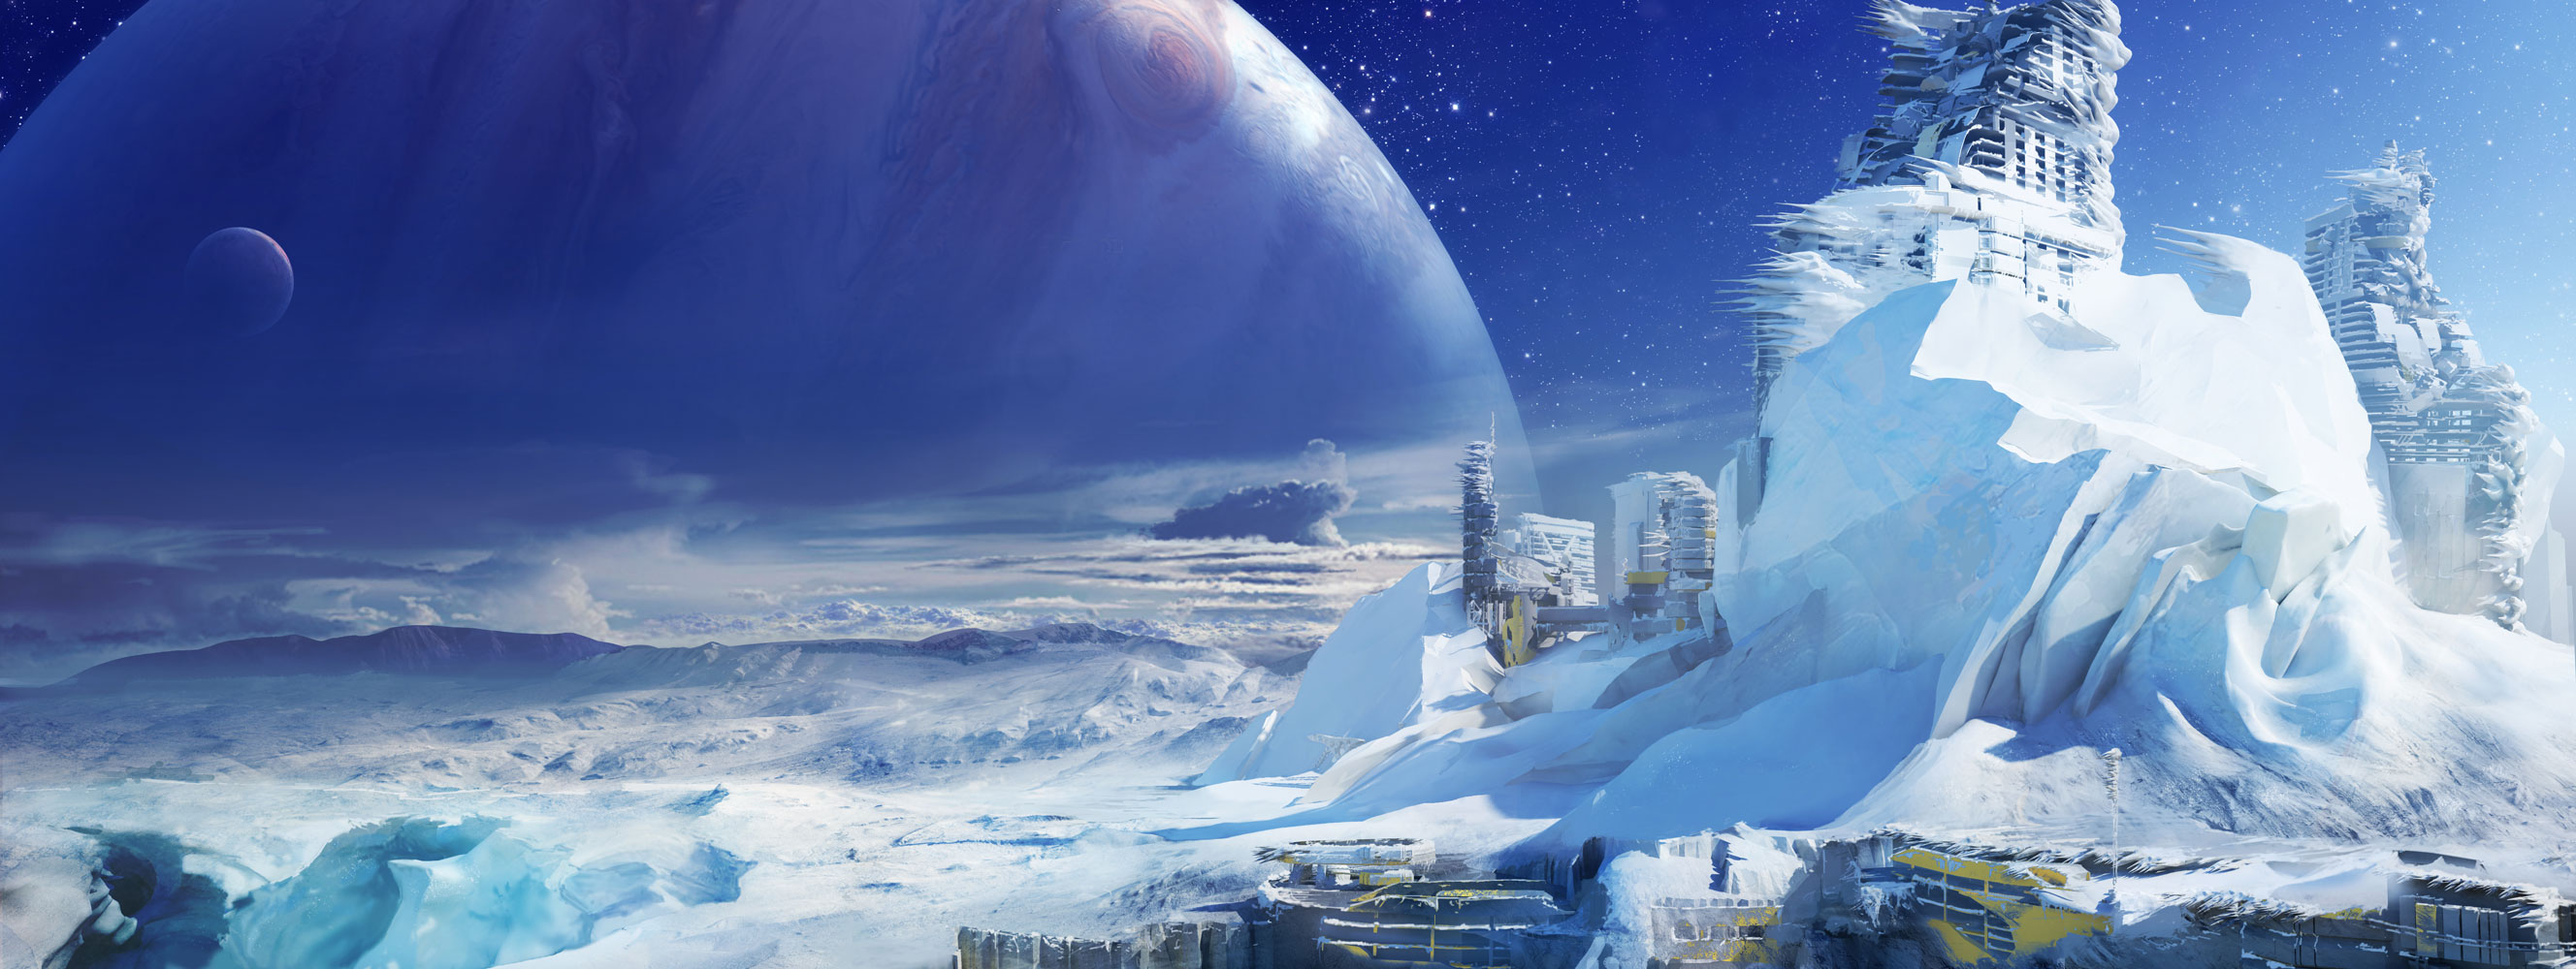
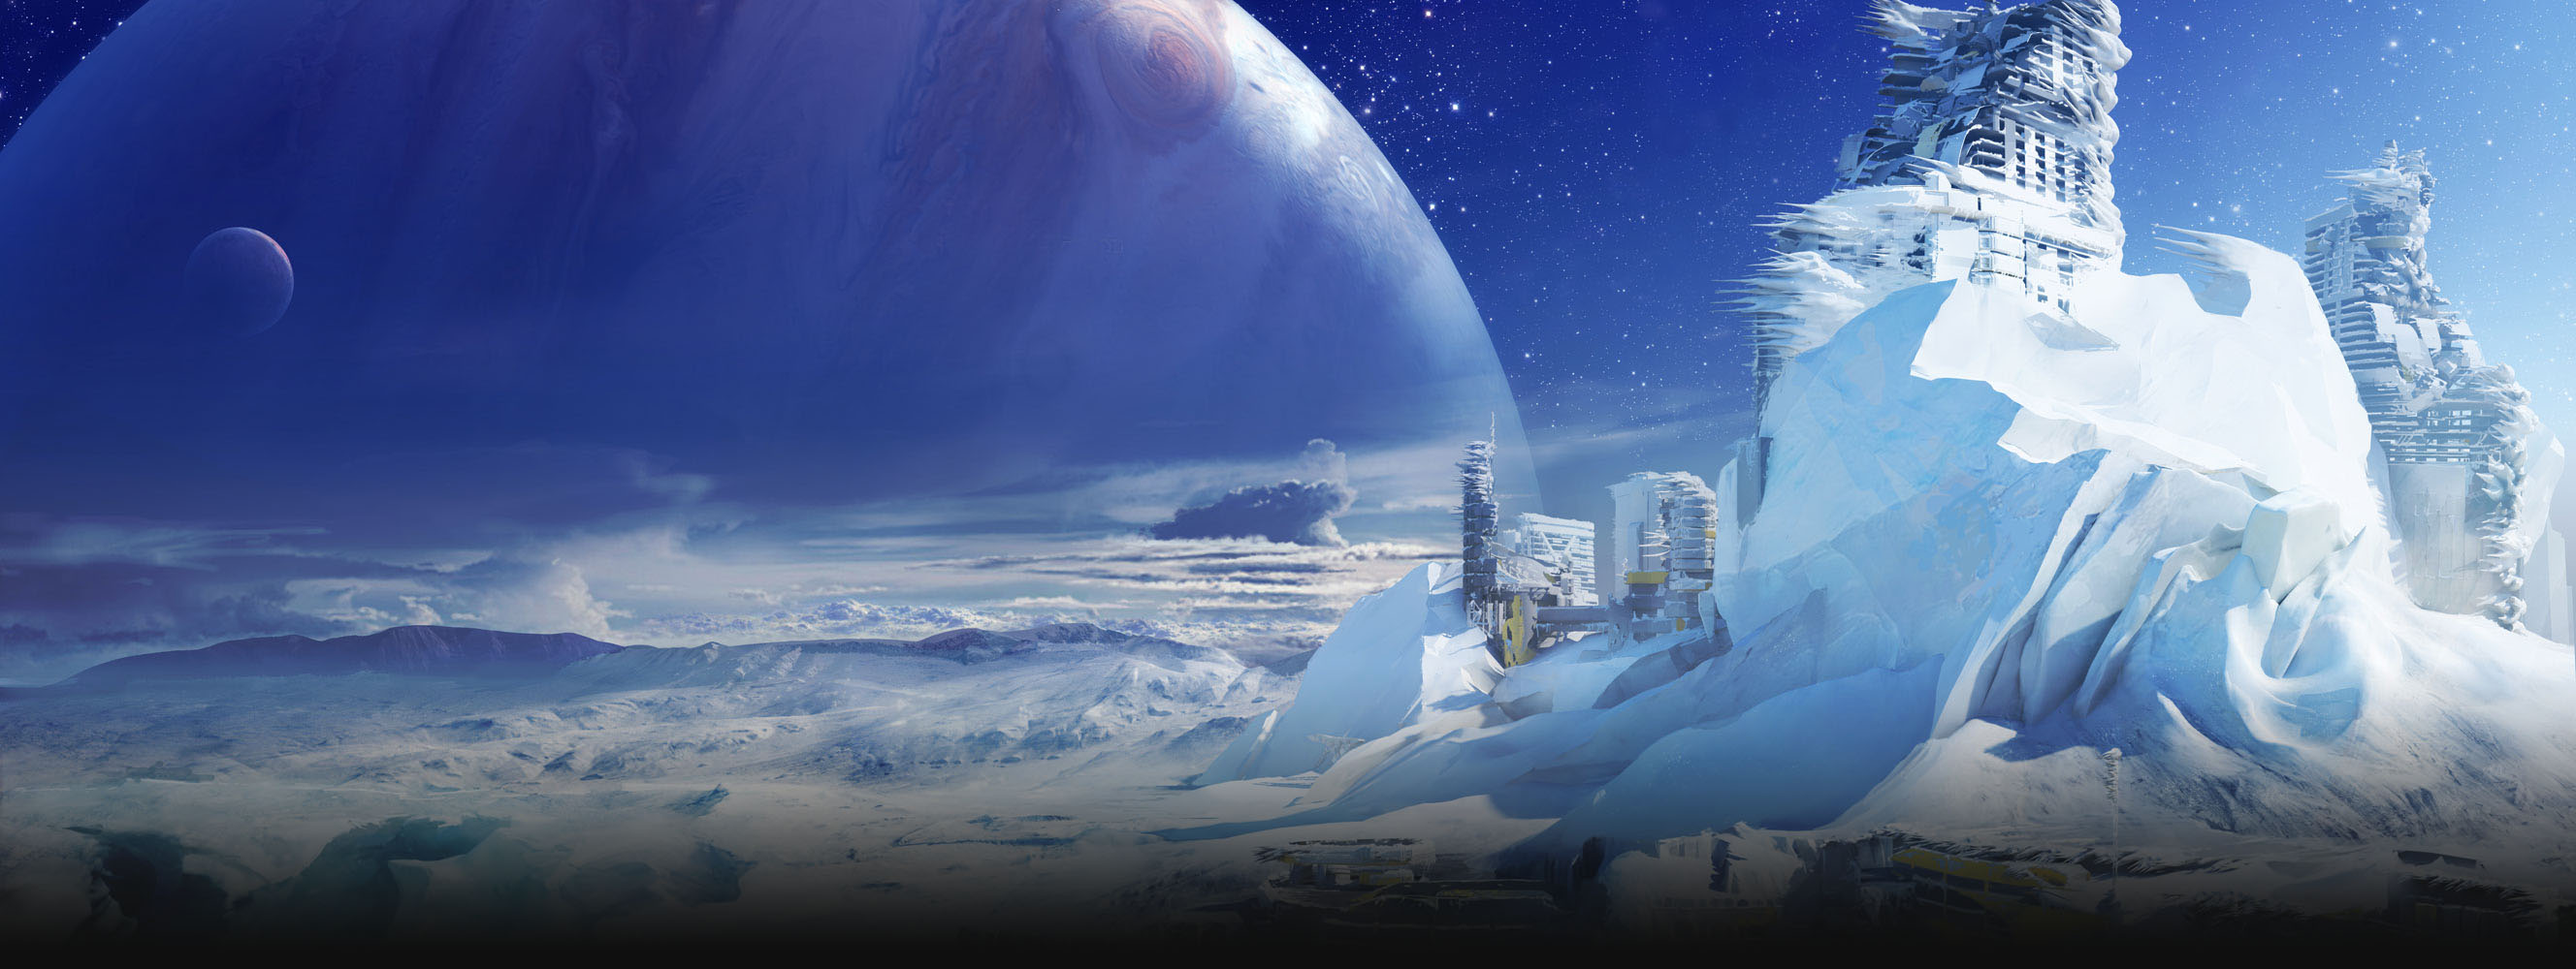
better background

Changed region(s): [[0.0, 0.713, 1.0, 1.0]]

diff --git a/style.css b/style.css
@@ -5,10 +5,11 @@
 body
 {
     background-image: url("images/Europa.jpg");
-    /* background-repeat: no-repeat; */
+    background-repeat: no-repeat;
     background-attachment: fixed;
     background-position: top;
     background-size: 100%;
+    background-color: rgb(15, 15, 15);
 }
 
 header
